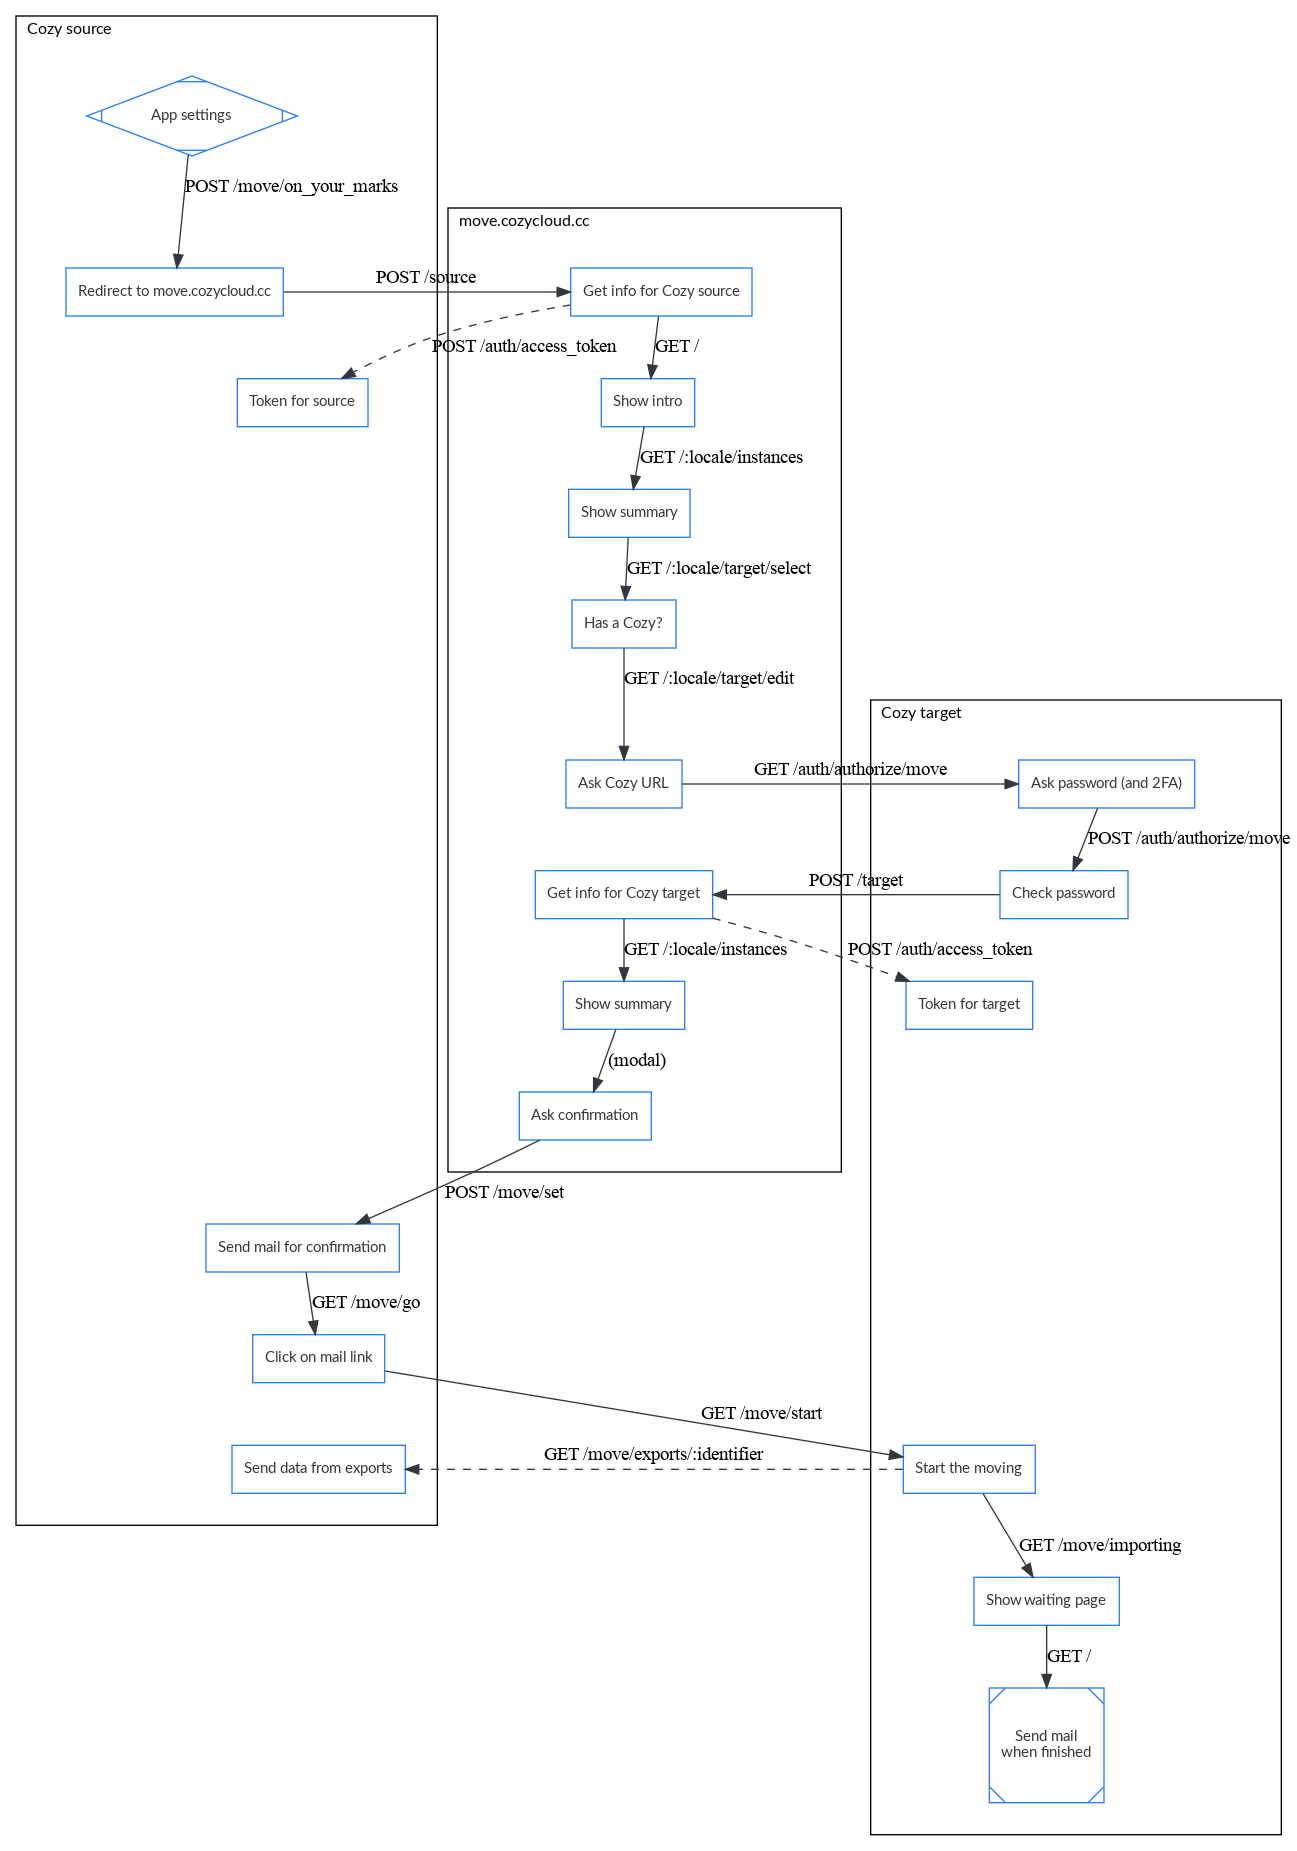
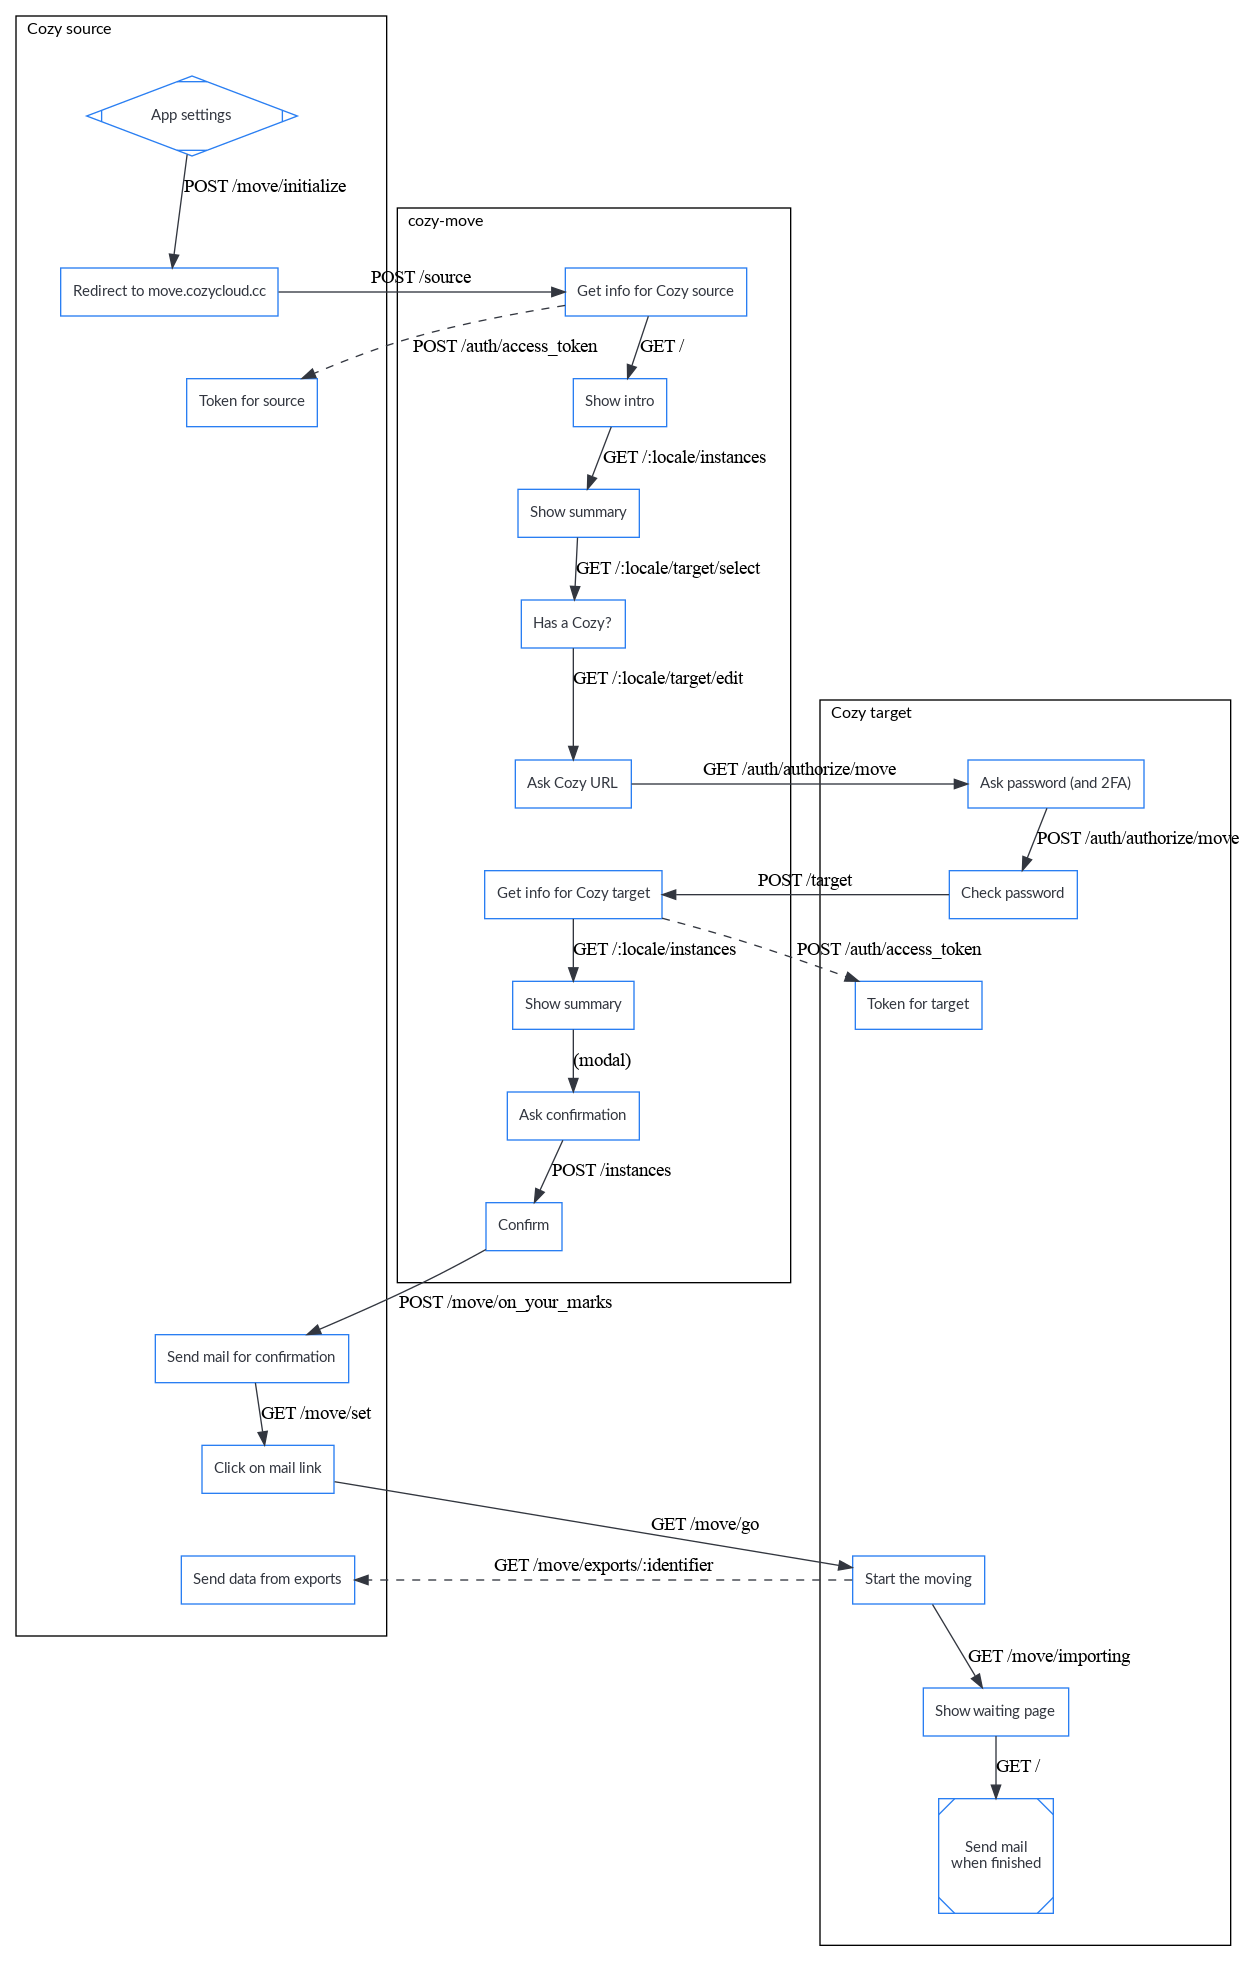
Add the workflow diagram starting from cozy-move

diff --git a/README.md b/README.md
@@ -15,9 +15,15 @@ hardware where no one profiles you.
 It is a wizard that helps cozy users to move their Cozy from one place/hoster
 to another.
 
-## Workflow
+## Workflows
+
+### Starting from settings
 
 ![Starting from settings](./docs/from-settings.png)
+
+### Starting from cozy-move
+
+![Starting from cozy-move](./docs/from-cozy-move.png)
 
 ## Dev
 
